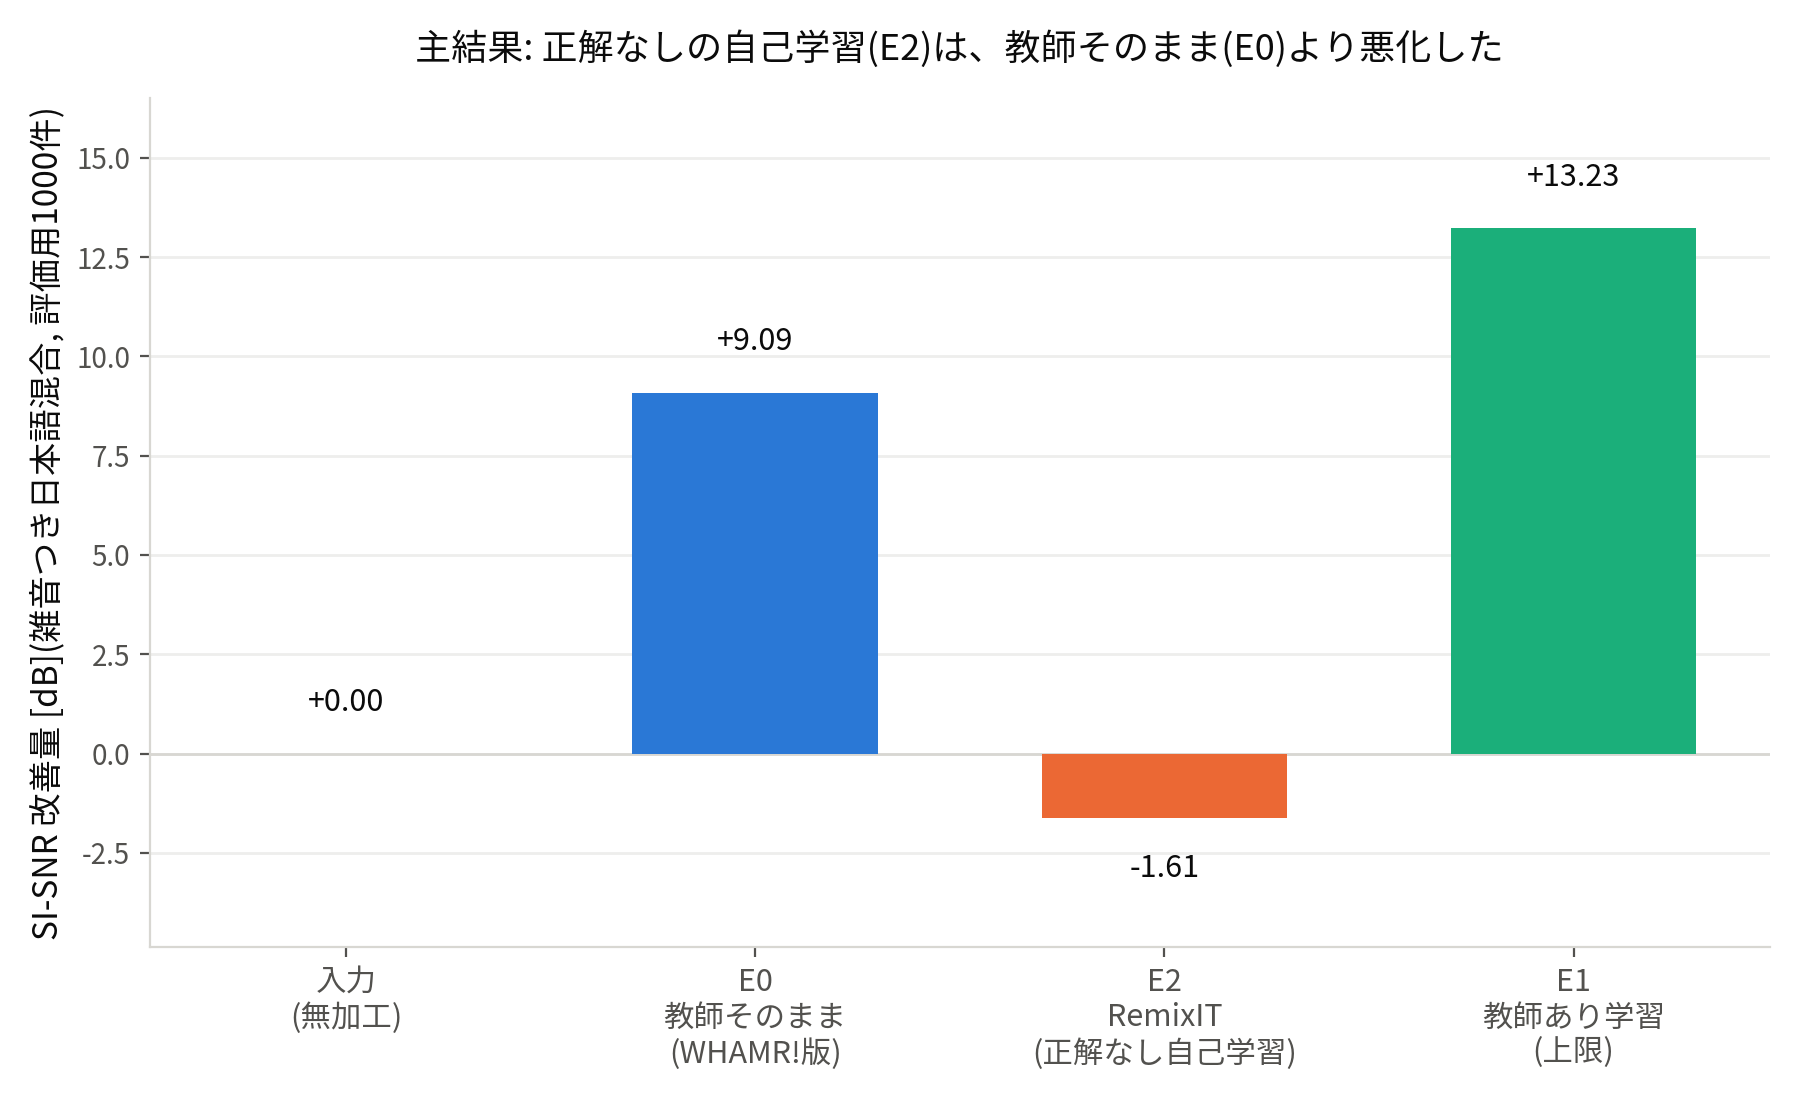
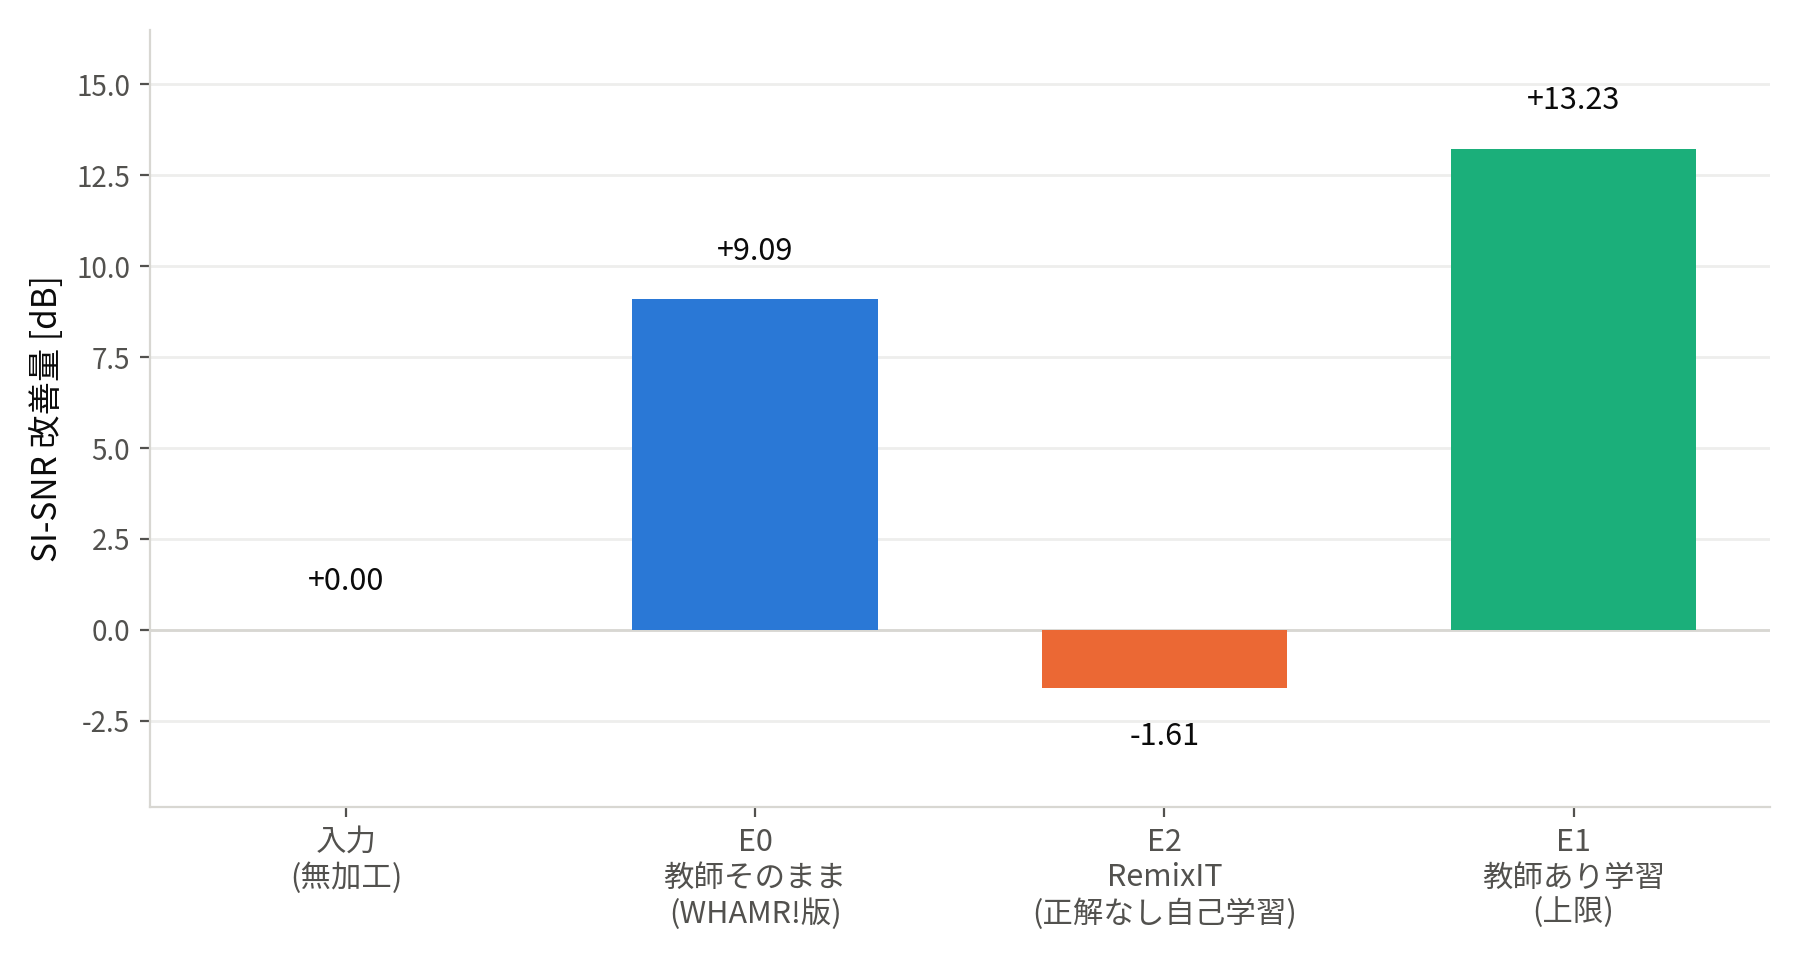
発表用の図からタイトルを削除し簡潔にする
パワーポイント側でスライドタイトルを付ける想定のため、図自体のタイトルは
削除。凡例・軸ラベル・値ラベルだけで内容が伝わるようにした。図の高さも
タイトル分を詰めて調整。

なおseabornの利用を検討したが、ルートの記憶領域が満杯(空き14MB)で
pip installができなかったため、matplotlibのみで対応した。

diff --git a/scripts/make_slides_figures.py b/scripts/make_slides_figures.py
@@ -62,7 +62,7 @@ def bar_with_labels(ax, x, values, colors, width=0.6, fmt="{:+.2f}"):
 
 
 # ── 図1: E0 クリーン vs 雑音つき(3教師) ──────────────────────────
-fig, ax = plt.subplots(figsize=(9, 5.5), dpi=200)
+fig, ax = plt.subplots(figsize=(9, 4.8), dpi=200)
 teachers = ["WSJ0-2mix\n(英語, クリーン学習)", "Libri2mix\n(英語, クリーン学習)", "WHAMR!\n(英語, 雑音+残響あり学習)"]
 clean = [19.66, 25.37, None]
 noisy = [0.57, 3.18, 9.09]
@@ -80,9 +80,7 @@ for i, v in enumerate(noisy):
     ax.text(i + w / 2, v + 0.5, f"{v:.2f}", ha="center", fontsize=11, color=TEXT)
 ax.set_xticks(list(x))
 ax.set_xticklabels(teachers, fontsize=11)
-ax.set_ylabel("SI-SNR 改善量 [dB](追加学習なし)", fontsize=12)
-ax.set_title("E0: 英語教師の追加学習なし評価 — 言語の違いは障害にならないが、雑音で大きく劣化する",
-             fontsize=13, pad=14)
+ax.set_ylabel("SI-SNR 改善量 [dB]", fontsize=12)
 ax.axhline(0, color="#d8d7d2", linewidth=1, zorder=1)
 ax.grid(axis="y", color="#eeeeec", linewidth=1, zorder=0)
 ax.set_axisbelow(True)
@@ -92,22 +90,20 @@ fig.savefig(OUT / "fig1_e0_clean_vs_noisy.png")
 plt.close(fig)
 
 # ── 図2: 主結果のはしご(E0 → E2 → E1) ──────────────────────────
-fig, ax = plt.subplots(figsize=(9, 5.5), dpi=200)
+fig, ax = plt.subplots(figsize=(9, 4.8), dpi=200)
 labels = ["入力\n(無加工)", "E0\n教師そのまま\n(WHAMR!版)", "E2\nRemixIT\n(正解なし自己学習)", "E1\n教師あり学習\n(上限)"]
 values = [0.0, 9.09, -1.61, 13.23]
 colors = [GRAY, BLUE, ORANGE, AQUA]
 bar_with_labels(ax, range(len(labels)), values, colors)
 ax.set_xticks(range(len(labels)))
 ax.set_xticklabels(labels, fontsize=11)
-ax.set_ylabel("SI-SNR 改善量 [dB](雑音つき日本語混合, 評価用1000件)", fontsize=12)
-ax.set_title("主結果: 正解なしの自己学習(E2)は、教師そのまま(E0)より悪化した",
-             fontsize=13, pad=14)
+ax.set_ylabel("SI-SNR 改善量 [dB]", fontsize=12)
 fig.tight_layout()
 fig.savefig(OUT / "fig2_main_ladder.png")
 plt.close(fig)
 
 # ── 図3: 診断の過程で観測された実データ品質のピーク値 ──────────────
-fig, ax = plt.subplots(figsize=(10, 5.5), dpi=200)
+fig, ax = plt.subplots(figsize=(10, 4.8), dpi=200)
 labels = ["E2 (元の構成)\n最終値\n[1000件]",
           "E2 (雑音分離後)\n初期のピーク\n[300件]",
           "E3 (教師逐次更新)\n初期のピーク\n[300件]",
@@ -117,9 +113,7 @@ colors = [GRAY, ORANGE, YELLOW, BLUE]
 bar_with_labels(ax, range(len(labels)), values, colors)
 ax.set_xticks(range(len(labels)))
 ax.set_xticklabels(labels, fontsize=10.5)
-ax.set_ylabel("SI-SNR 改善量 [dB](実データでの評価)", fontsize=12)
-ax.set_title("診断の過程: 原因を切り分けるたびに、観測される品質のピークは改善している",
-             fontsize=13, pad=14)
+ax.set_ylabel("SI-SNR 改善量 [dB]", fontsize=12)
 ax.text(0.5, 0.02, "※右端(バッチ拡張)は学習継続中の途中経過。最終値ではない",
         transform=ax.transAxes, ha="center", fontsize=9.5, color=TEXT_MUTED)
 fig.tight_layout()
@@ -127,15 +121,13 @@ fig.savefig(OUT / "fig3_diagnosis_progress.png")
 plt.close(fig)
 
 # ── 図4: 「教師との一致度」と「実品質」の乖離(E2, 雑音分離後) ──────
-fig, ax = plt.subplots(figsize=(9, 5.5), dpi=200)
+fig, ax = plt.subplots(figsize=(9, 4.8), dpi=200)
 stages = ["学習序盤\n(エポック1-2)", "学習後半\n(エポック20+)"]
 real_quality = [0.14, -0.84]
 bar_with_labels(ax, range(len(stages)), real_quality, [ORANGE, GRAY], width=0.45, fmt="{:+.2f} dB")
 ax.set_xticks(range(len(stages)))
 ax.set_xticklabels(stages, fontsize=12)
-ax.set_ylabel("実データでのSI-SNR改善量 [dB]", fontsize=12)
-ax.set_title("学習中に見ていた「教師との一致度」は改善し続けたが、\n実際の品質は序盤でピークを迎え、その後悪化した",
-             fontsize=13, pad=14)
+ax.set_ylabel("SI-SNR 改善量 [dB]", fontsize=12)
 fig.tight_layout()
 fig.savefig(OUT / "fig4_internal_vs_real_divergence.png")
 plt.close(fig)
